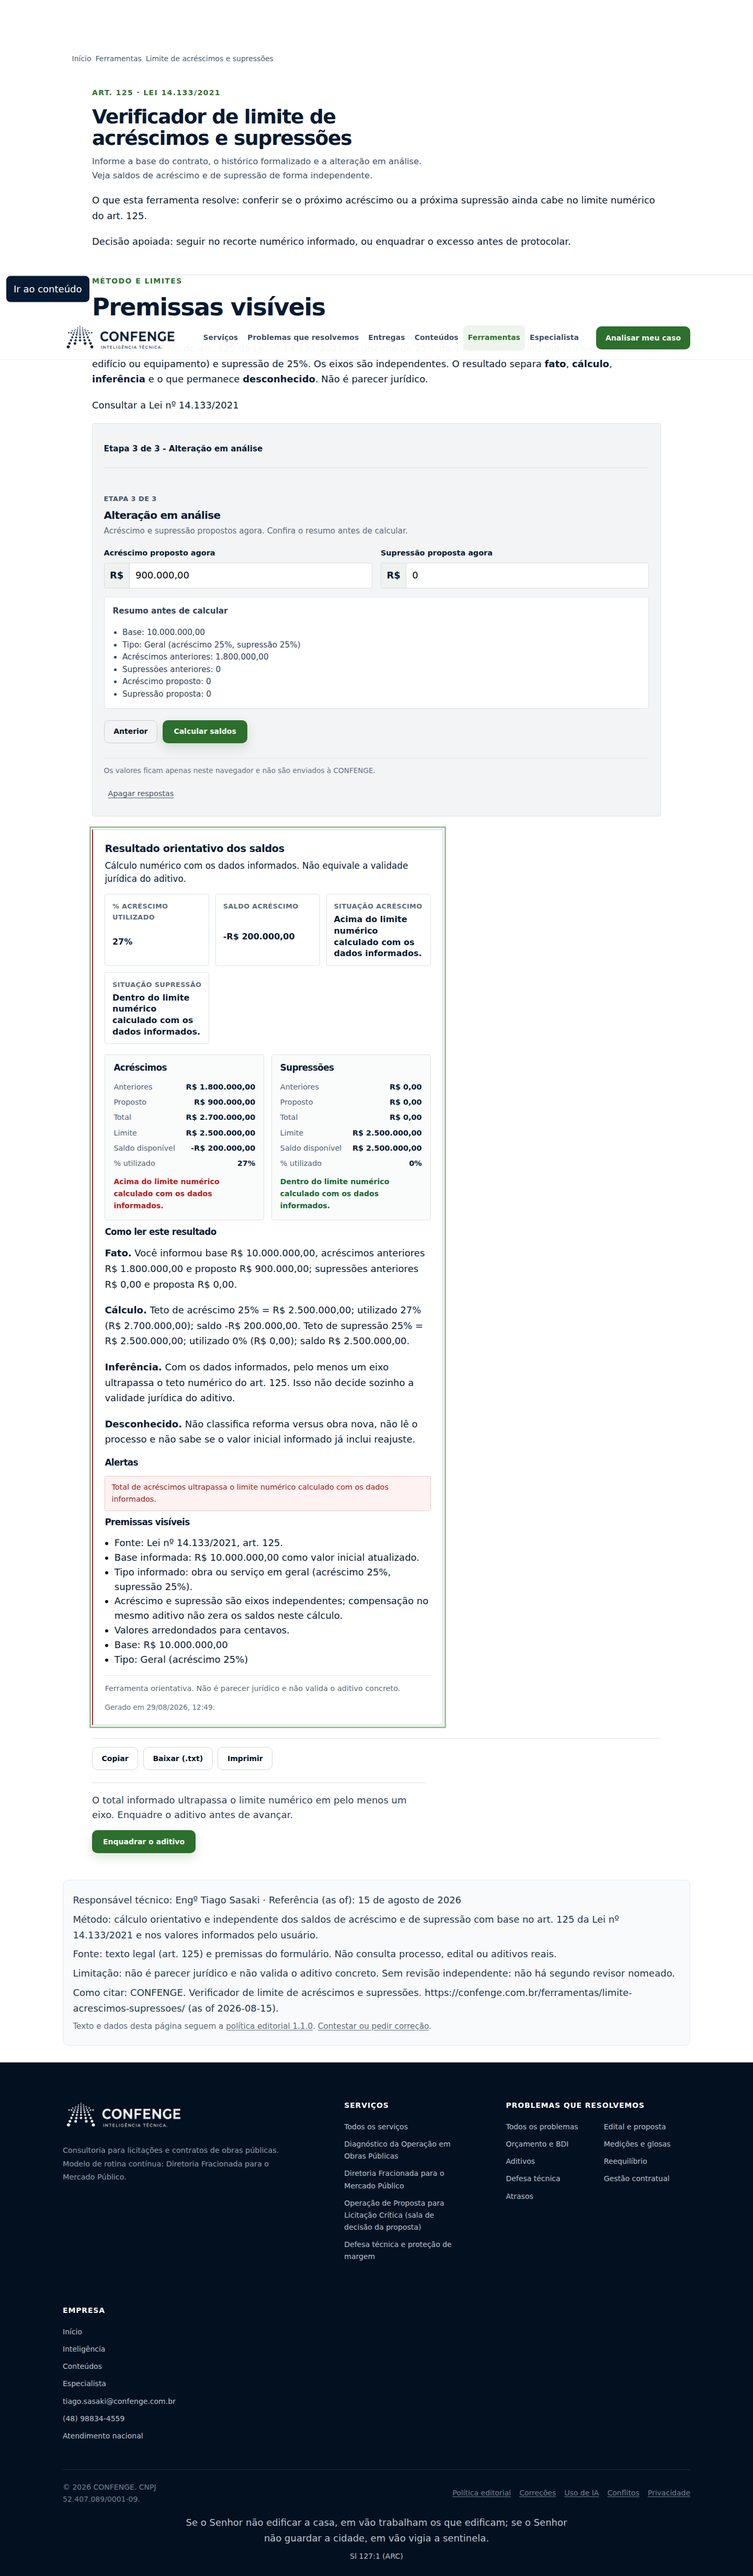
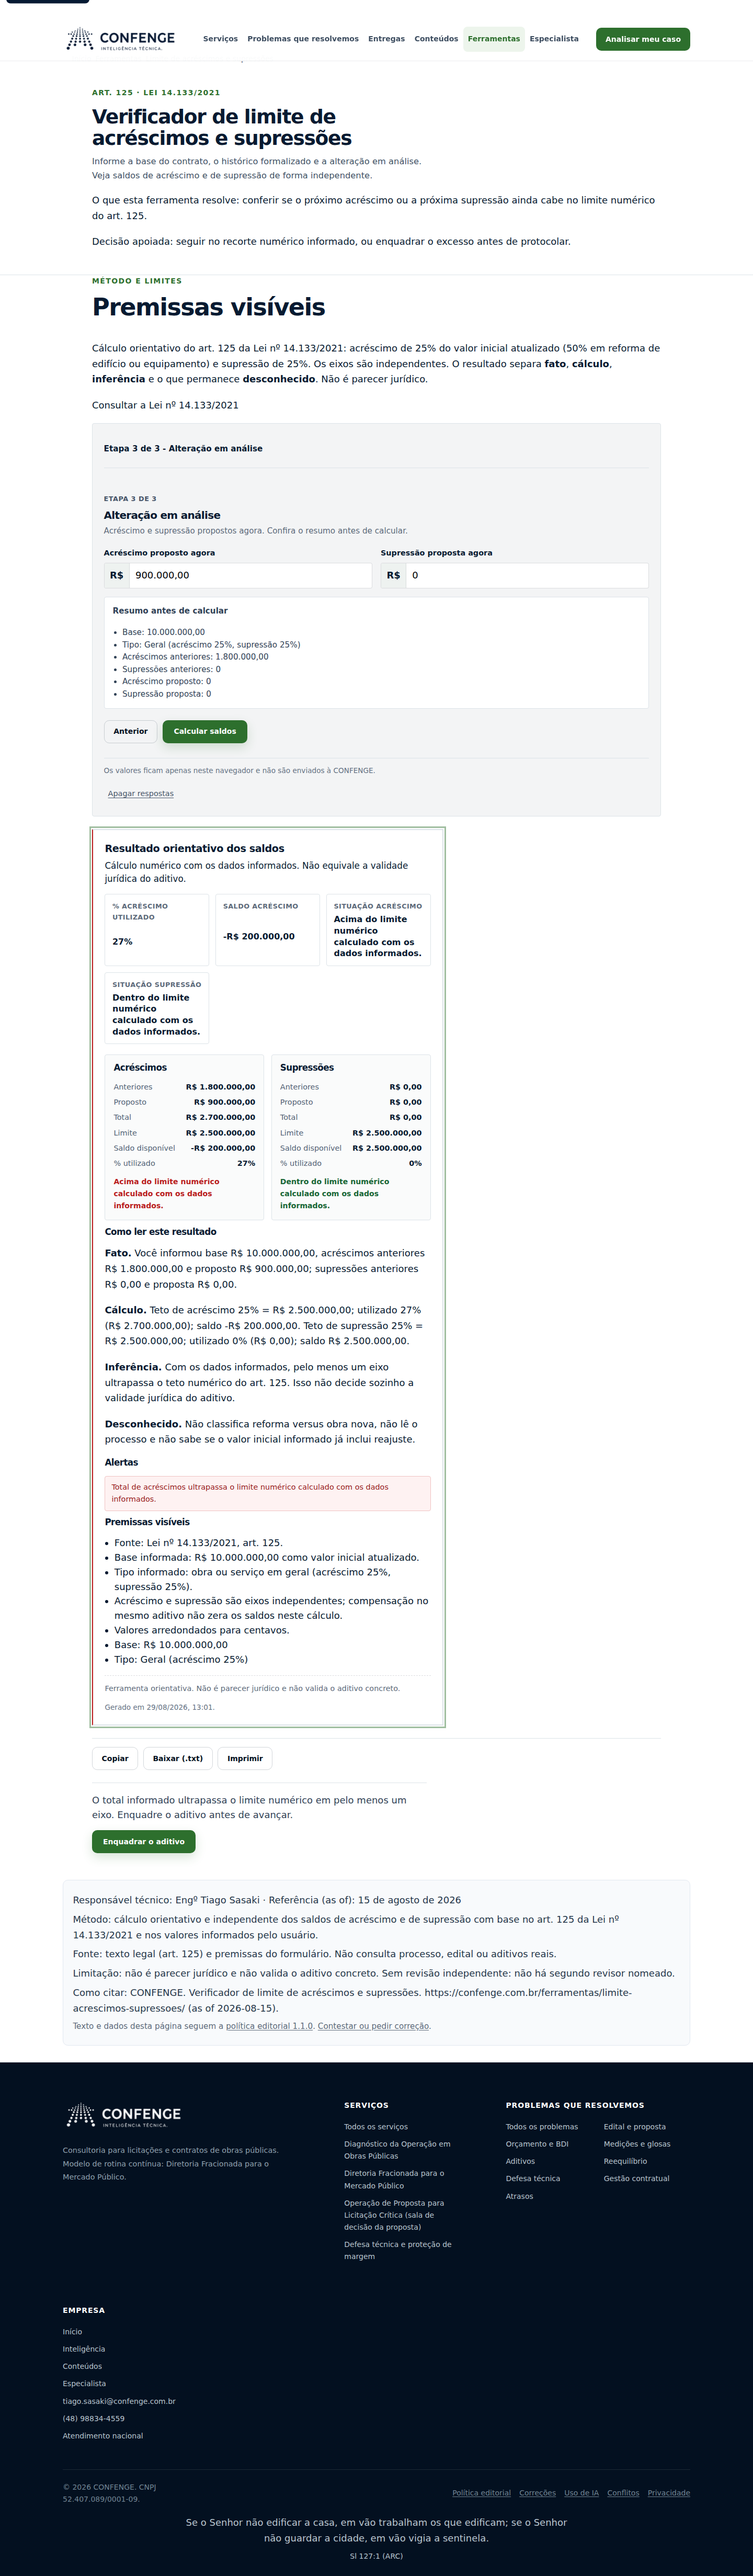
fix(ferramentas): preserve frozen shared tool styles

diff --git a/ferramentas/limite-acrescimos-supressoes/index.html b/ferramentas/limite-acrescimos-supressoes/index.html
@@ -55,9 +55,9 @@
 <p>Cálculo orientativo do art. 125 da Lei nº 14.133/2021: acréscimo de 25% do valor inicial atualizado (50% em reforma de edifício ou equipamento) e supressão de 25%. Os eixos são independentes. O resultado separa <strong>fato</strong>, <strong>cálculo</strong>, <strong>inferência</strong> e o que permanece <strong>desconhecido</strong>. Não é parecer jurídico.</p>
 <p><a href="https://www.planalto.gov.br/ccivil_03/_ato2019-2022/2021/lei/l14133.htm" rel="external noopener" target="_blank">Consultar a Lei nº 14.133/2021</a></p>
 </section>
-<p class="tool-runtime-status" id="limite-runtime-status" data-tool-runtime-status role="status">Ative o JavaScript para calcular no navegador. O formulário está bloqueado para não enviar valores pela URL ou ao servidor.</p>
+<p class="tool-runtime-status" id="limite-runtime-status" data-tool-runtime-status role="status" style="border-inline-start:4px solid var(--green-600, #3d8238);margin-block:1rem;padding:.75rem 1rem">Ative o JavaScript para calcular no navegador. O formulário está bloqueado para não enviar valores pela URL ou ao servidor.</p>
 <form id="limite-form" class="tool-form tool-workflow" method="post" action="/ferramentas/limite-acrescimos-supressoes/" novalidate data-tool-workflow>
-<fieldset class="tool-runtime-fields" data-tool-runtime-fields disabled>
+<fieldset class="tool-runtime-fields" data-tool-runtime-fields disabled style="border:0;margin:0;min-inline-size:0;padding:0">
 
 <div class="tool-progress-panel" data-limite-progress role="status" aria-live="polite">
 <p class="tool-step-status" data-limite-step-status>Etapa 1 de 3  -  Base do contrato</p>

diff --git a/ferramentas/matriz-atraso-obra/index.html b/ferramentas/matriz-atraso-obra/index.html
@@ -45,9 +45,9 @@
 <div class="tool-premises-body">
 <p>Matriz orientativa. Força maior e fato da Administração não se presumem: demonstram-se. A ferramenta não soma dias automaticamente nem emite laudo pericial. O resultado separa <strong>fato</strong>, <strong>cálculo</strong> (sem soma de dias), <strong>inferência</strong> (hipótese) e o que permanece <strong>desconhecido</strong>.</p>
 </div></details>
-<p class="tool-runtime-status" id="matriz-runtime-status" data-tool-runtime-status role="status">Ative o JavaScript para montar hipóteses no navegador. O formulário está bloqueado para não enviar eventos pela URL ou ao servidor.</p>
+<p class="tool-runtime-status" id="matriz-runtime-status" data-tool-runtime-status role="status" style="border-inline-start:4px solid var(--green-600, #3d8238);margin-block:1rem;padding:.75rem 1rem">Ative o JavaScript para montar hipóteses no navegador. O formulário está bloqueado para não enviar eventos pela URL ou ao servidor.</p>
 <form id="f" class="tool-form" method="post" action="/ferramentas/matriz-atraso-obra/">
-<fieldset class="tool-runtime-fields" data-tool-runtime-fields disabled>
+<fieldset class="tool-runtime-fields" data-tool-runtime-fields disabled style="border:0;margin:0;min-inline-size:0;padding:0">
 <div id="events" class="tool-event-list"></div>
 <div class="tool-actions"><button type="button" class="button button-secondary" id="btn-add">Adicionar evento</button></div>
 <div class="tool-field" style="margin-top:1rem">

diff --git a/ferramentas/checklist-reequilibrio/index.html b/ferramentas/checklist-reequilibrio/index.html
@@ -53,9 +53,9 @@
 </ul>
 <p><a href="https://www.planalto.gov.br/ccivil_03/_ato2019-2022/2021/lei/l14133.htm" rel="external noopener" target="_blank">Consultar a Lei nº 14.133/2021</a> · <a href="https://licitacoesecontratos.tcu.gov.br/6-2-2-1-1-reequilibrio-economico-financeiro-recomposicao-ou-revisao-2/" rel="external noopener" target="_blank">Consultar o manual do TCU</a></p>
 </section>
-<p class="tool-runtime-status" id="reeq-runtime-status" data-tool-runtime-status role="status">Ative o JavaScript para avaliar no navegador. O formulário está bloqueado para não enviar respostas pela URL ou ao servidor.</p>
+<p class="tool-runtime-status" id="reeq-runtime-status" data-tool-runtime-status role="status" style="border-inline-start:4px solid var(--green-600, #3d8238);margin-block:1rem;padding:.75rem 1rem">Ative o JavaScript para avaliar no navegador. O formulário está bloqueado para não enviar respostas pela URL ou ao servidor.</p>
 <form id="f" class="tool-form" method="post" action="/ferramentas/checklist-reequilibrio/">
-<fieldset class="tool-runtime-fields" data-tool-runtime-fields disabled>
+<fieldset class="tool-runtime-fields" data-tool-runtime-fields disabled style="border:0;margin:0;min-inline-size:0;padding:0">
 <div id="root"></div>
 <div class="tool-grid" style="margin-top:1rem">
 <div class="tool-field"><label for="urg">Urgência</label>

diff --git a/ferramentas/diagnostico-defesa-margem/index.html b/ferramentas/diagnostico-defesa-margem/index.html
@@ -58,9 +58,9 @@
 <li><strong>Identidade:</strong> CONFENGE, consultoria de engenharia para contratos de obras públicas. Esta página não é parecer jurídico.</li>
 </ul>
 </section>
-<p class="tool-runtime-status" id="diagnostico-runtime-status" data-tool-runtime-status role="status">Carregando o recorte público. A busca fica bloqueada até a leitura estar pronta e nunca envia o identificador pela URL.</p>
+<p class="tool-runtime-status" id="diagnostico-runtime-status" data-tool-runtime-status role="status" style="border-inline-start:4px solid var(--green-600, #3d8238);margin-block:1rem;padding:.75rem 1rem">Carregando o recorte público. A busca fica bloqueada até a leitura estar pronta e nunca envia o identificador pela URL.</p>
 <form id="lookup" class="tool-form" role="search" method="post" action="/ferramentas/diagnostico-defesa-margem/">
-<fieldset class="tool-runtime-fields" data-tool-runtime-fields disabled>
+<fieldset class="tool-runtime-fields" data-tool-runtime-fields disabled style="border:0;margin:0;min-inline-size:0;padding:0">
 <div class="tool-field">
 <label for="qid">Contrato, CNPJ, identificador ou contexto público</label>
 <input id="qid" name="q" type="search" autocomplete="off" placeholder="Ex.: 83102277000152-2-000626/2026 ou Itajaí"/>

diff --git a/styles-tools.css b/styles-tools.css
@@ -231,19 +231,6 @@ a.tool-card:focus-visible {
   padding: 1.25rem 1.35rem;
   margin: 1.25rem 0;
 }
-
-.tool-runtime-fields {
-  border: 0;
-  margin: 0;
-  min-inline-size: 0;
-  padding: 0;
-}
-
-.tool-runtime-status {
-  border-inline-start: 4px solid var(--green-600, #3d8238);
-  margin-block: 1rem;
-  padding: .75rem 1rem;
-}
 .tool-grid {
   display: grid;
   grid-template-columns: 1fr 1fr;

diff --git a/docs/uiux-tools-remediation/PORT-PR457-2026-08-29.md b/docs/uiux-tools-remediation/PORT-PR457-2026-08-29.md
@@ -40,6 +40,7 @@ Hipótese: entregar utilidade verificável antes da captura aumenta confiança e
 - Corrigida a atribuição falsa em que qualquer clique dentro da seção comercial contava como clique de oferta. A instrumentação agora é delegada ao alvo acionável.
 - Centralizado no browser um allowlist tipado de propriedades analíticas; strings livres, identificadores, CNPJ, dinheiro e chaves desconhecidas são descartados antes do tracker.
 - Removida a tabela `TOOL_JOBS` não consumida; o visitor job verificável permanece no HTML publicado e no registro de família.
+- Restaurado `styles-tools.css` byte a byte ao baseline congelado do plano BOFU. A apresentação dos estados fail-closed ficou route-local; hashes e thresholds do freeze não foram recapturados nem flexibilizados.
 
 ### Spec review
 
@@ -79,6 +80,7 @@ Relatórios reproduzíveis: `evidence/e2e-report.json`, `evidence/axe-report.jso
 | `python3 scripts/site/test_csp_contract.py` | verde |
 | `npm run test:csp-browser` | verde, 0 violações |
 | `npm run test:runtime-authority` | verde, 23/23 |
+| `npm run test:bofu-dominance` | verde, 83/83; CSS compartilhado idêntico ao freeze |
 | `PUBLIC_ARTIFACT_REQUIRED=1 npm run test:tools-uiux-e2e` | verde, 0 failures |
 
 O inbound gate continua reportando as exceções route-exact existentes para limite, reequilíbrio e matriz, sob issue #61 e expiração em 2026-09-30. Este porte não ampliou allowlist nem prazo. A ponte comercial pós-resultado está presente; a dívida nominal é a ausência de captura terminal na própria rota.
